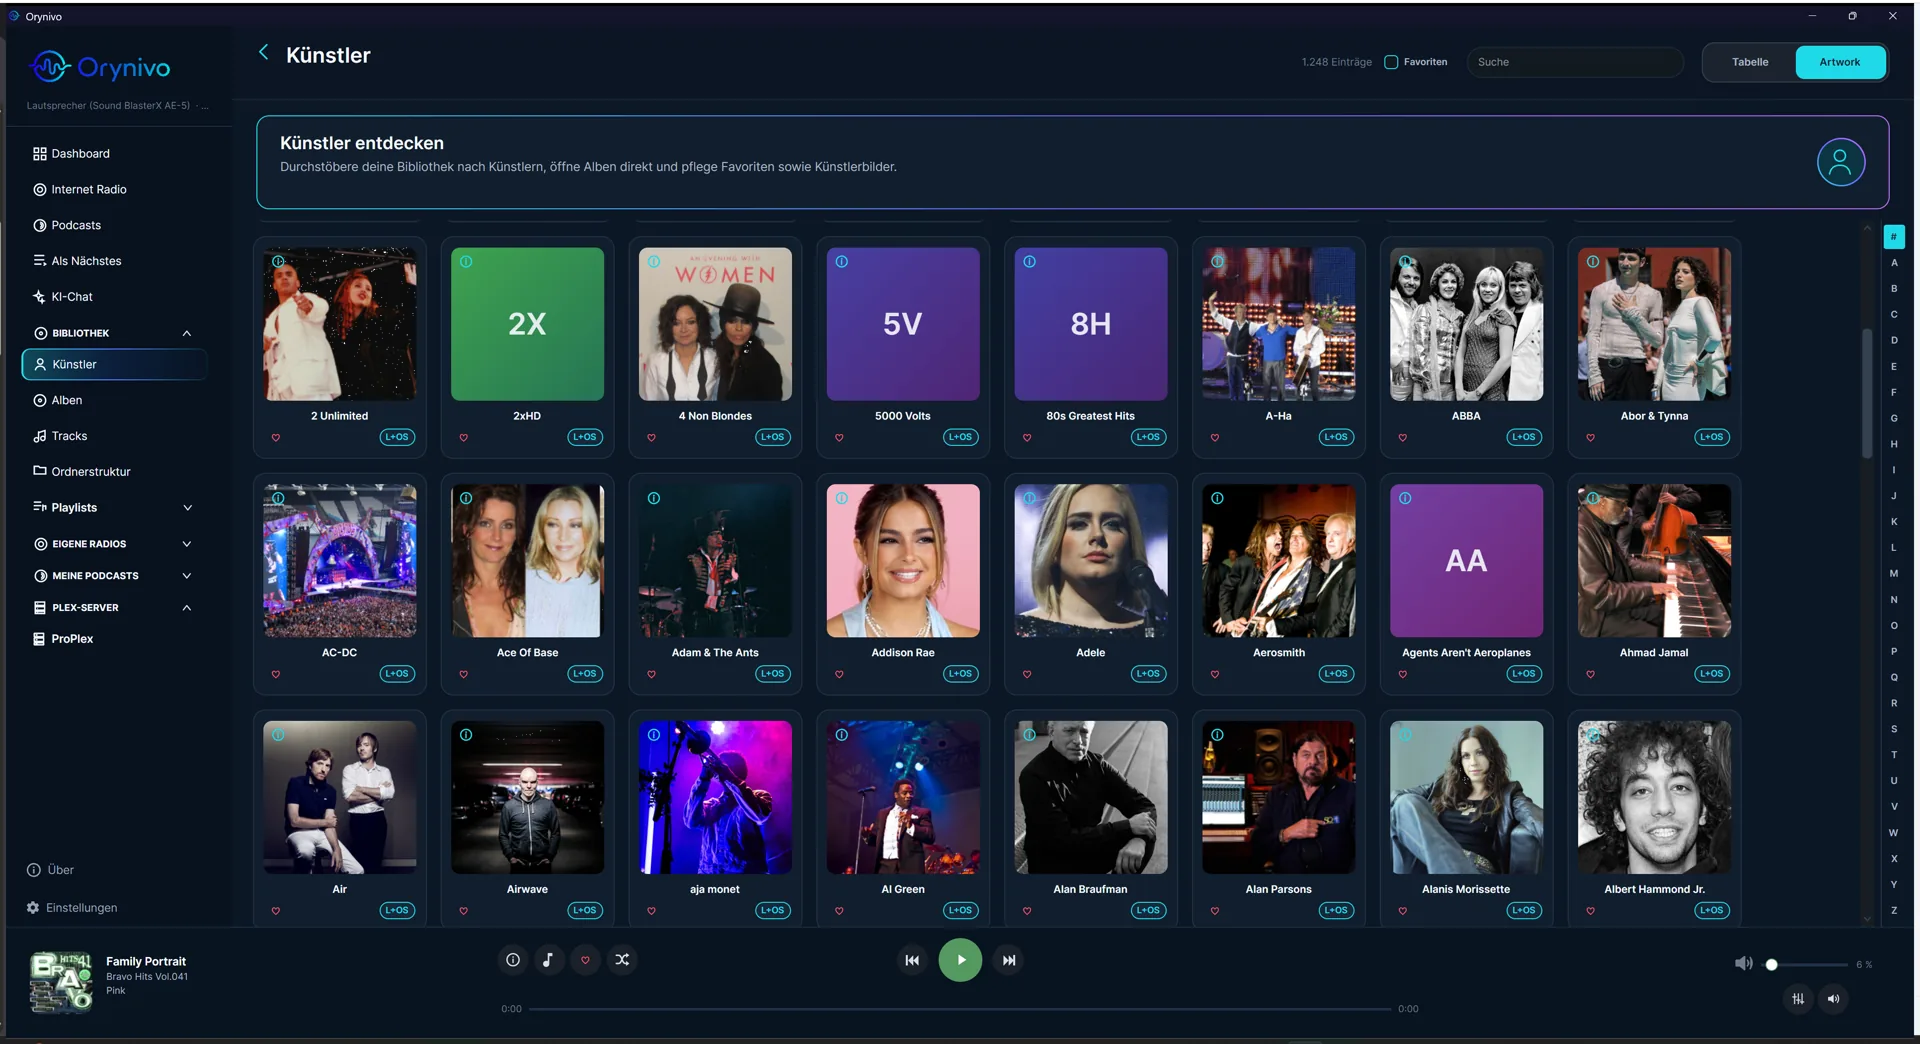
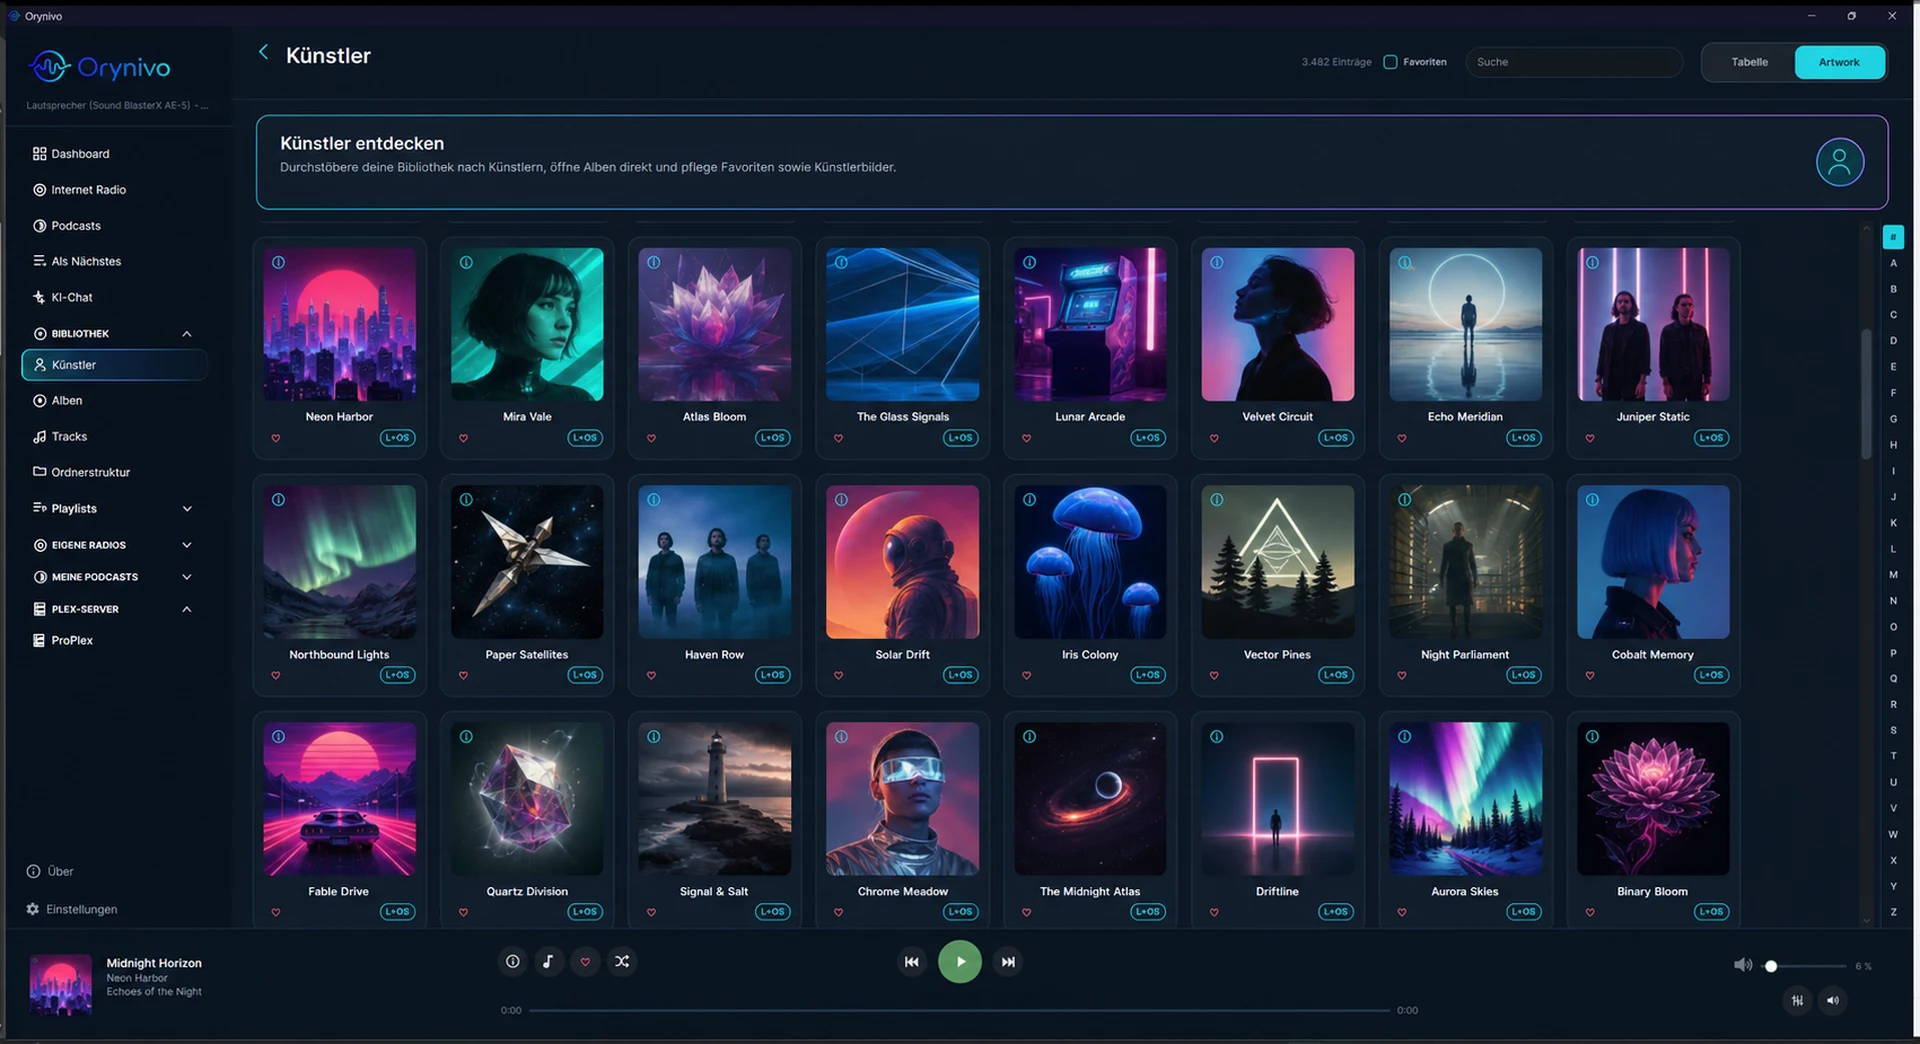
feat: add privacy-safe website screenshots and Genre Cloud gallery
- anonymize artists, albums, tracks, history, servers and playback metadata
- provide optimized PNG and WebP assets at the existing resolution
- add the Genre Cloud screenshot to the multilingual website gallery
- update website documentation and changelog

diff --git a/html/i18n.js b/html/i18n.js
@@ -194,10 +194,10 @@ const pageMetadata = {
 };
 
 const galleryTitles = {
-  en: ['Discover artists', 'Browse albums', 'Manage tracks', 'Folder structure', 'Internet radio', 'Discover podcasts', 'Built-in AI chat', 'Personal dashboard'],
-  de: ['Künstler entdecken', 'Alben durchsuchen', 'Tracks verwalten', 'Ordnerstruktur', 'Internet Radio', 'Podcasts entdecken', 'Integrierter KI-Chat', 'Persönliches Dashboard'],
-  fr: ['Découvrir les artistes', 'Parcourir les albums', 'Gérer les titres', 'Arborescence', 'Radio Internet', 'Découvrir les podcasts', 'Chat IA intégré', 'Tableau de bord personnel'],
-  es: ['Descubrir artistas', 'Explorar álbumes', 'Gestionar pistas', 'Estructura de carpetas', 'Radio por Internet', 'Descubrir pódcasts', 'Chat de IA integrado', 'Panel personal']
+  en: ['Discover artists', 'Browse albums', 'Manage tracks', 'Explore genres', 'Folder structure', 'Internet radio', 'Discover podcasts', 'Built-in AI chat', 'Personal dashboard'],
+  de: ['Künstler entdecken', 'Alben durchsuchen', 'Tracks verwalten', 'Genres entdecken', 'Ordnerstruktur', 'Internet Radio', 'Podcasts entdecken', 'Integrierter KI-Chat', 'Persönliches Dashboard'],
+  fr: ['Découvrir les artistes', 'Parcourir les albums', 'Gérer les titres', 'Explorer les genres', 'Arborescence', 'Radio Internet', 'Découvrir les podcasts', 'Chat IA intégré', 'Tableau de bord personnel'],
+  es: ['Descubrir artistas', 'Explorar álbumes', 'Gestionar pistas', 'Explorar géneros', 'Estructura de carpetas', 'Radio por Internet', 'Descubrir pódcasts', 'Chat de IA integrado', 'Panel personal']
 };
 
 function applyLanguage(language, persist = true) {

diff --git a/html/es/index.html b/html/es/index.html
@@ -121,6 +121,7 @@
         <button class="active" data-shot="artists.webp" data-title="Künstler entdecken" role="tab" aria-selected="true">Artistas</button>
         <button data-shot="albums.webp" data-title="Alben durchsuchen" role="tab">Álbumes</button>
         <button data-shot="tracks.webp" data-title="Tracks verwalten" role="tab">Pistas</button>
+        <button data-shot="cloud.webp" data-title="Genres entdecken" role="tab">Nube de géneros</button>
         <button data-shot="folders.webp" data-title="Ordnerstruktur" role="tab">Carpetas</button>
         <button data-shot="radio.webp" data-title="Internet Radio" role="tab">Radio</button>
         <button data-shot="podcasts.webp" data-title="Podcasts entdecken" role="tab">Pódcasts</button>

diff --git a/html/fr/index.html b/html/fr/index.html
@@ -121,6 +121,7 @@
         <button class="active" data-shot="artists.webp" data-title="Künstler entdecken" role="tab" aria-selected="true">Artistes</button>
         <button data-shot="albums.webp" data-title="Alben durchsuchen" role="tab">Albums</button>
         <button data-shot="tracks.webp" data-title="Tracks verwalten" role="tab">Titres</button>
+        <button data-shot="cloud.webp" data-title="Genres entdecken" role="tab">Nuage de genres</button>
         <button data-shot="folders.webp" data-title="Ordnerstruktur" role="tab">Dossiers</button>
         <button data-shot="radio.webp" data-title="Internet Radio" role="tab">Radio</button>
         <button data-shot="podcasts.webp" data-title="Podcasts entdecken" role="tab">Podcasts</button>

diff --git a/html/de/index.html b/html/de/index.html
@@ -121,6 +121,7 @@
         <button class="active" data-shot="artists.webp" data-title="Künstler entdecken" role="tab" aria-selected="true">Künstler</button>
         <button data-shot="albums.webp" data-title="Alben durchsuchen" role="tab">Alben</button>
         <button data-shot="tracks.webp" data-title="Tracks verwalten" role="tab">Tracks</button>
+        <button data-shot="cloud.webp" data-title="Genres entdecken" role="tab">Genre-Wolke</button>
         <button data-shot="folders.webp" data-title="Ordnerstruktur" role="tab">Ordner</button>
         <button data-shot="radio.webp" data-title="Internet Radio" role="tab">Radio</button>
         <button data-shot="podcasts.webp" data-title="Podcasts entdecken" role="tab">Podcasts</button>

diff --git a/html/index.html b/html/index.html
@@ -121,6 +121,7 @@
         <button class="active" data-shot="artists.webp" data-title="Künstler entdecken" role="tab" aria-selected="true">Artists</button>
         <button data-shot="albums.webp" data-title="Alben durchsuchen" role="tab">Albums</button>
         <button data-shot="tracks.webp" data-title="Tracks verwalten" role="tab">Tracks</button>
+        <button data-shot="cloud.webp" data-title="Genres entdecken" role="tab">Genre Cloud</button>
         <button data-shot="folders.webp" data-title="Ordnerstruktur" role="tab">Folders</button>
         <button data-shot="radio.webp" data-title="Internet Radio" role="tab">Radio</button>
         <button data-shot="podcasts.webp" data-title="Podcasts entdecken" role="tab">Podcasts</button>

diff --git a/CHANGELOG.md b/CHANGELOG.md
@@ -23,6 +23,11 @@ The format is based on [Keep a Changelog](https://keepachangelog.com/en/1.1.0/).
 
 ### Changed
 
+- Replaced the product website screenshots with a consistent fictional demo
+  library so published imagery no longer exposes real artists, albums, playback
+  history, server names, folder paths, or now-playing metadata. The fictional
+  Genre Cloud capture is available as a dedicated gallery tab in all four
+  website languages.
 - Replaced the Infinite Mix comma-separated genre fields with removable chips
   and type-ahead suggestions sourced from the currently enabled local and
   Orynivo Server libraries, while retaining support for custom genre values.

diff --git a/html/README.md b/html/README.md
@@ -6,6 +6,10 @@ files and media assets live in this directory. Search engines receive static
 localized pages at `/`, `/de/`, `/fr/`, and `/es/`, complete with canonical
 URLs, hreflang references, and structured software data.
 
+All application screenshots use the fictional Neon Harbor demo library. Keep
+future website captures free of real library names, covers, playback history,
+server names, device identifiers, and filesystem paths.
+
 After changing shared content or translations, regenerate the localized pages:
 
 ```powershell
